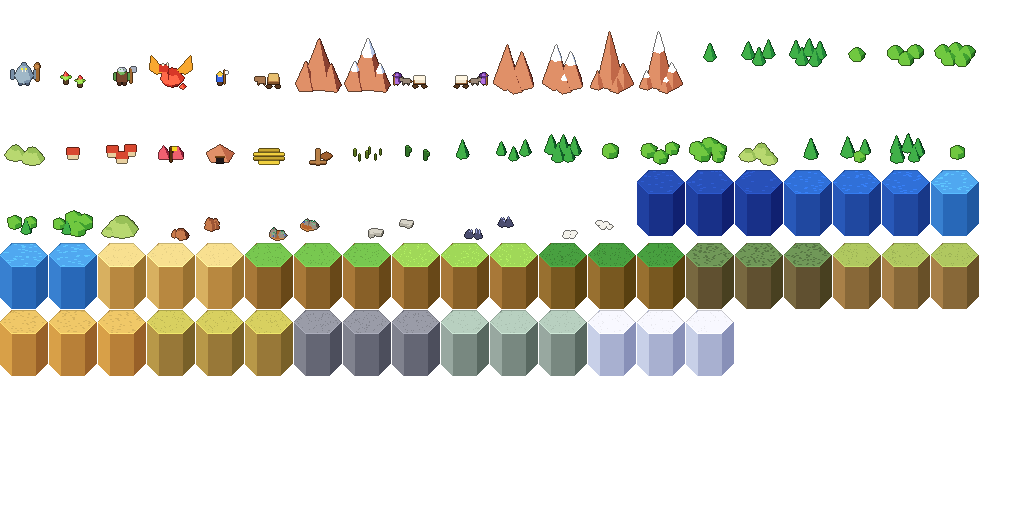
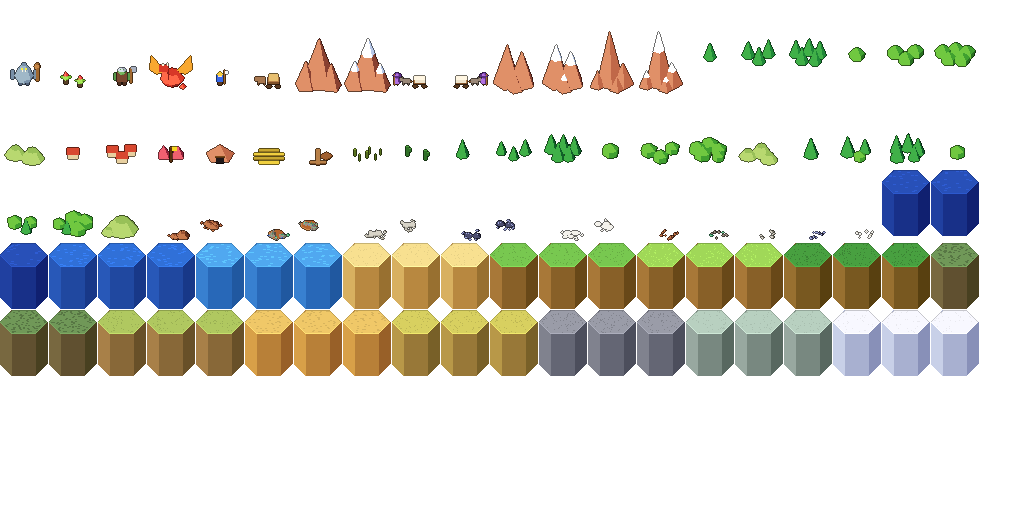
Outcrops a third of the height with loose debris around them; a building on a deposit leaves debris on the near side instead of the outcrop
Claude-Session: https://claude.ai/code/session_019bZj63bfJ4yeeeApDeBWPP

Changed region(s): [[0.0, 0.3125, 0.9688, 0.75]]

diff --git a/src/render/MapView.ts b/src/render/MapView.ts
@@ -385,13 +385,15 @@ export class MapView {
       const dug = thing?.name === 'f_mine' && (land!.feature === 'mountain' || land!.feature === 'mountain_snow' || land!.feature === 'hills')
       const layers: { name: string; alpha: number; dx?: number; dy: number }[] = []
       // an outcrop on open ground says what's in it (on mountains, the ore stains the rock instead).
-      // It comes in two halves: a mine, house, town or lair here takes the far half, and the near half stays.
+      // It comes in two halves: a mine, house, town or lair here takes the far half, and the near half
+      // shrinks to loose debris.
       const outcrop = deposit && !MOUNTAIN_FEATURE.has(land!.feature ?? '')
-      const ore = (part: 'front' | 'back') => ({ name: `f_ore_${land!.resource}_${part}`, alpha: 1, dy: 0 })
+      const ore = (part: 'front' | 'back' | 'debris') => ({ name: `f_ore_${land!.resource}_${part}`, alpha: 1, dy: 0 })
       if (outcrop) {
         const far = { dx: -Math.round(W * 0.15), dy: -Math.round(W * 0.07) }
         if (thing && land!.resource === 'clay') layers.push({ name: thing.name, alpha: thing.alpha ?? 1, dy: 0 })
-        else if (thing) layers.push({ name: dug ? 'f_mine' : thing.name, alpha: thing.alpha ?? 1, ...far }, ore('front'))
+        // something built here: it takes the far side, and loose debris from the deposit shows on the near side
+        else if (thing) layers.push({ name: dug ? 'f_mine' : thing.name, alpha: thing.alpha ?? 1, ...far }, ore('debris'))
         // clay shows as red banks along the river instead; salt is common and low: just the near half
         else if (land!.resource === 'clay') { if (natural) layers.push({ name: natural, alpha: 1, dy: 0 }) }
         else if (land!.resource === 'salt') layers.push(...(natural ? [{ name: natural, alpha: 1, dy: 0 }] : []), ore('front'))

diff --git a/tools/blender/render_tiles.py b/tools/blender/render_tiles.py
@@ -426,11 +426,31 @@ def feat_cactus():
 
 def feat_ore(kind, part):
     """One half of a deposit's outcrop: "front" (near side, toward the front-right)
-    or "back" (far side, toward the back-left). A mine or quarry takes the back
-    half's place; the front half stays to show what's being dug."""
+    or "back" (far side, toward the back-left), each a low cluster with loose
+    debris around it; or "debris" alone (stones and chips on the near side), shown
+    when a mine, house or town takes the hex. All of it is squashed to a third of
+    its height in main() (ORE_FLAT), so outcrops lie low in the grass."""
     p = PAL["features"]
     rng = random.Random(f"ore:{kind}:{part}")
-    ox, oy = (0.3, -0.3) if part == "front" else (-0.3, 0.28)
+    ox, oy = (-0.3, 0.28) if part == "back" else (0.3, -0.3)
+    # colours for the loose stones of each kind
+    chips = {
+        "iron": (p["iron"], p["iron_light"], p["iron_dark"]),
+        "copper": (p["copper_rock"], p["copper_rock_light"], p["copper_rock_dark"]),
+        "stone": (p["stone"], p["stone_light"], p["stone_dark"]),
+        "tin": (p["tin"], p["tin_light"], p["tin_dark"]),
+        "salt": (p["salt"], p["salt"], p["salt_dark"]),
+    }[kind]
+
+    def debris(n, spread):
+        """Small loose stones (and the odd green chip for copper) scattered round the cluster."""
+        for j in range(n):
+            a = rng.uniform(0, 6.28)
+            d = rng.uniform(spread * 0.45, spread)
+            x, y = ox + math.cos(a) * d, oy + math.sin(a) * d * 0.8
+            r = rng.uniform(0.03, 0.06)
+            col = (p["malachite"], p["malachite_light"], p["malachite"]) if kind == "copper" and j % 4 == 0 else chips
+            cone((x, y, 0), r, r * 2.2, col[0], segs=rng.choice((4, 5)), r_top=r * 0.35, rot=rng.uniform(0, 1.5), shade=(col[1], col[2]))
 
     def at(dx, dy):
         return (ox + dx + rng.uniform(-0.05, 0.05), oy + dy + rng.uniform(-0.04, 0.04))
@@ -442,6 +462,10 @@ def feat_ore(kind, part):
     rng.shuffle(spots)
 
     def build(W):
+        if part == "debris":
+            debris(11, 0.34)
+            return
+        debris(10, 0.42)
         if kind == "iron":
             for k, (dx, dy) in enumerate(spots[:4]):
                 x, y = at(dx, dy)
@@ -492,6 +516,7 @@ def feat_ore(kind, part):
 
 ORES = ("iron", "copper", "stone", "tin", "salt")  # clay is drawn in the game, as red riverbanks
 ORE_SCALE = 1.15
+ORE_FLAT = 0.34  # outcrops lie low: a third of their modelled height
 
 
 # ---------------------------------------------------------------- creatures
@@ -682,7 +707,7 @@ FEATURES = {
     "reeds": feat_reeds(), "cactus": feat_cactus(),
 }
 for _o in ORES:
-    for _part in ("front", "back"):
+    for _part in ("front", "back", "debris"):
         FEATURES[f"ore_{_o}_{_part}"] = feat_ore(_o, _part)
 # variants (f_<name>_v1, f_<name>_v2) so forests and ranges don't look stamped
 for _v in (1, 2):
@@ -723,7 +748,7 @@ def main():
         k = CREATURE_SCALE.get(name) or (ORE_SCALE if name.startswith("ore_") else None)
         if kind == "features" and k:
             for ob in bpy.data.objects:
-                ob.scale = (k, k, k)
+                ob.scale = (k, k, k * (ORE_FLAT if name.startswith("ore_") else 1))
         if kind == "features":
             bpy.context.view_layer.update()
             zs = [(ob.matrix_world @ v.co) for ob in bpy.data.objects if ob.type == "MESH" for v in ob.data.vertices]
